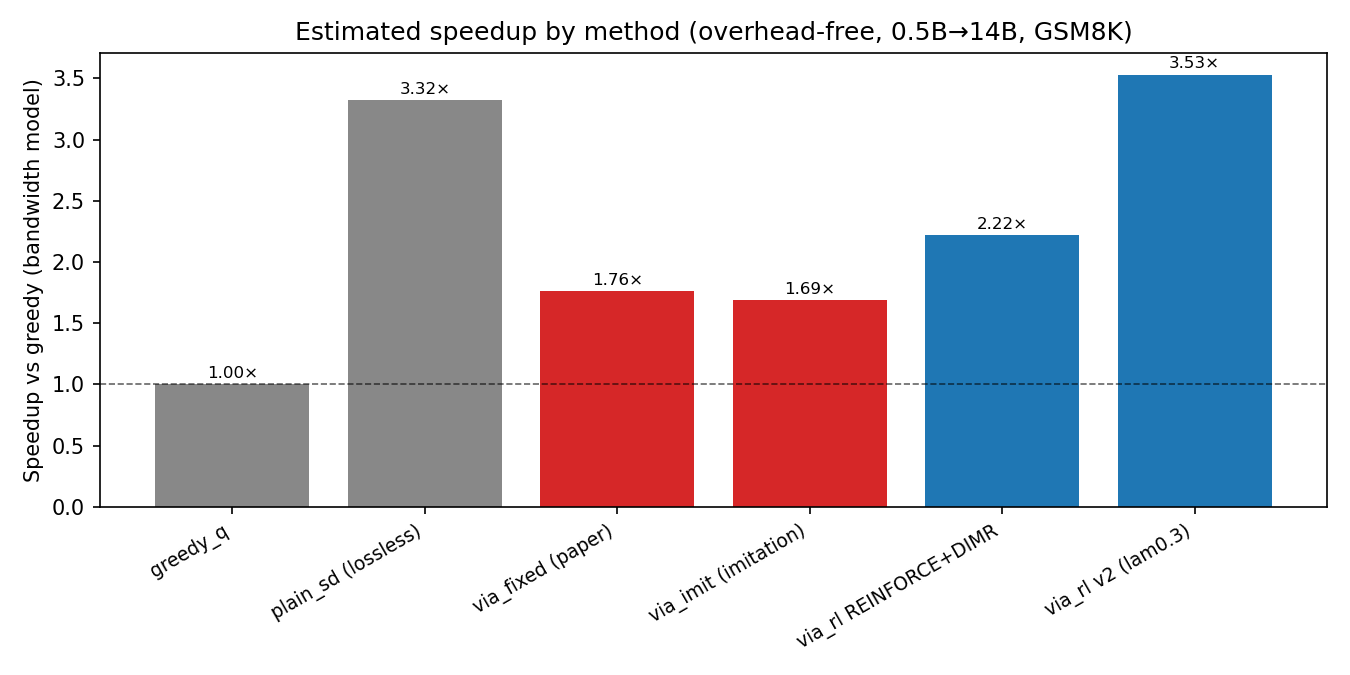
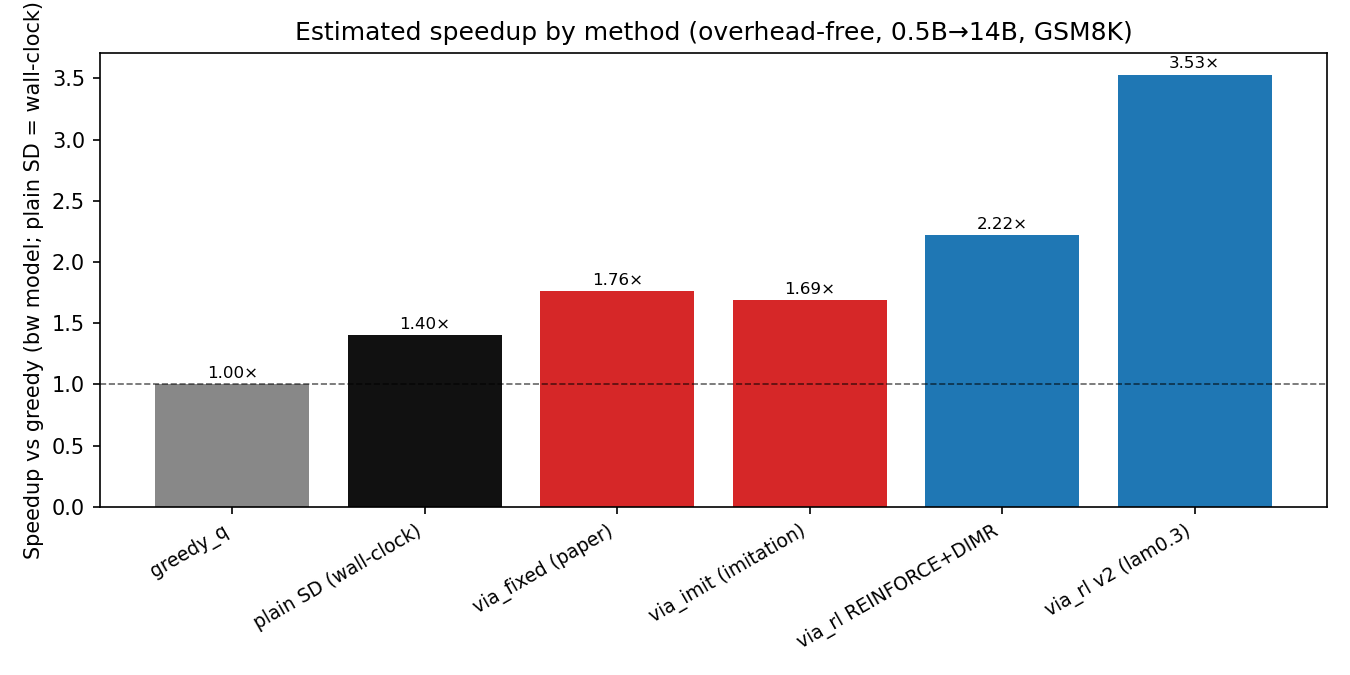
update: paper

Changed region(s): [[0.2489, 0.1244, 0.3733, 0.7467], [0.0, 0.0, 0.0311, 0.84], [0.1867, 0.7778, 0.3111, 0.9333]]

diff --git a/writeup.tex b/writeup.tex
@@ -21,8 +21,8 @@ policy}. We study three RL formulations (REINFORCE, GRPO, and a per-token-reward
 variant) and their reward/credit-assignment design. On a GSM8K slice with a Qwen2.5
 \mbox{0.5B$\to$14B} pair, the learned gate \textbf{dramatically outperforms the paper's fixed
 thresholds} (accuracy $0.21$--$0.40\to0.88$--$0.91$) at fewer expensive verifier calls.
-We also report honest negatives: plain lossless speculative decoding stays
-Pareto-competitive at this gap, and the slim-verifier tier only pays off when the gate is learned.
+We also report honest negatives: the slim-verifier middle tier only pays off when the gate is
+learned, and scaling the verifier alone (without the drafter) hurts an accept-heavy policy.
 \end{abstract}
 
 \section{Background: VIA-SD and DIMR}
@@ -39,7 +39,7 @@ inserts a \emph{slim intermediate verifier} $q'$ between $p$ and $q$, turning th
 accept/reject into a three-way \emph{hierarchical} decision per token: \textbf{accept} $p$'s token
 when $q'$ is highly confident; \textbf{regenerate} with $q'$ for medium-confidence (middle-zone)
 tokens; \textbf{escalate} to the full $q$ only for low-confidence tokens. By resolving middle-zone
-tokens at $q'$, it reduces how often the expensive $q$ is invoked relative to plain SD. The routing
+tokens at $q'$, it reduces how often the expensive $q$ is invoked relative to standard two-tier SD. The routing
 is governed by two fixed confidence thresholds $(\alpha_1,\alpha_2)$ on $q'$'s confidence ratio
 (reported best at $\alpha_1{=}0.5,\alpha_2{=}0.3$); the scheme is mildly \emph{lossy}, with a
 tolerance $\alpha$ controlling how far accepted tokens may deviate. The paper motivates the
@@ -161,10 +161,10 @@ the match-based rewards are match-dominated, the resulting RL is close to \emph{
 \begin{table}[H]\centering\small
 \begin{tabular}{lccc}
 \toprule
-Method & GSM8K acc & q-calls/tok & speedup (bw) \\
+Method & GSM8K acc & q-calls/tok & speedup \\
 \midrule
 greedy-$q$ (reference)        & 0.887 & 1.000 & 1.00$\times$ \\
-plain SD (lossless)           & 0.907 & 0.259 & 3.30$\times$ \\
+plain SD (standard, lossless) & 0.907 & 0.259 & 1.40$\times$\textsuperscript{\dag} \\
 \midrule
 via\_fixed (paper, tuned)     & 0.40\textsuperscript{*} & 0.31 & 1.76$\times$ \\
 via\_imit (imitation only)    & 0.34  & 0.29 & 1.69$\times$ \\
@@ -175,21 +175,25 @@ via\_rl REINFORCE\,+\,DIMR    & \textbf{0.907} & 0.250 & 2.22$\times$ \\
 via\_rl v2 per-token ($\lambda{=}0.3$) & 0.713 & 0.104 & \textbf{3.53$\times$} \\
 \bottomrule
 \end{tabular}
-\caption{Headline comparison (0.5B$\to$14B, GSM8K). \textsuperscript{*}via\_fixed peaks at
-$\approx$0.50 even under a full 9-config threshold sweep. q-calls/token is exact; bandwidth
-speedup reported where measured. Accuracy uses $n{=}80$--$150$ (see caveats).}
+\caption{Headline comparison (0.5B$\to$14B, GSM8K). \textsuperscript{\dag}plain SD speedup is
+\textbf{measured wall-clock} (Qwen) at 0.907 accuracy --- the realistic SD anchor (matches the
+paper's 1.3--1.7$\times$). All other speedups are the \textbf{bandwidth model} (idealized,
+overhead-free; the via\_* real wall-clock would be lower), so they are not directly comparable
+to \textsuperscript{\dag}. \textsuperscript{*}via\_fixed peaks at $\approx$0.50 even under a full
+9-config threshold sweep. q-calls/token is exact and hardware-independent. Accuracy $n{=}80$--$150$.}
 \end{table}
 
 \begin{figure}[H]\centering
 \includegraphics[width=0.72\textwidth]{results/figures/speedup_bar.png}
-\caption{Overhead-free speedup by method. The learned v2 gate and plain SD reach $\sim$3.3--3.5$\times$;
-the fixed-threshold gate is slow because it over-escalates to the full model.}
+\caption{Speedup by method. \textbf{plain SD's bar is measured wall-clock (1.4$\times$, Qwen)};
+all via\_* bars are the idealized bandwidth model (overhead-free) and are \emph{not} directly
+comparable --- their real wall-clock would be lower. The fixed-threshold gate over-escalates.}
 \end{figure}
 \begin{figure}[H]\centering
 \includegraphics[width=0.62\textwidth]{results/figures/pareto.png}
 \caption{Accuracy vs.\ speedup. \textcolor{blue}{Learned} gates dominate \textcolor{red}{fixed}
-ones; \texttt{REINFORCE+DIMR} matches plain SD's accuracy (0.907) at lower speed (the $q'$ overhead);
-v2 trades accuracy for speed.}
+ones; \texttt{REINFORCE+DIMR} reaches near-greedy accuracy (0.907); v2 trades accuracy for higher speed.
+(plain SD's $x$ is measured wall-clock; via\_* use the bandwidth model --- different metrics.)}
 \end{figure}
 \begin{figure}[H]\centering
 \includegraphics[width=\textwidth]{results/figures/rl_curves.png}
@@ -205,11 +209,12 @@ fully tuned), at lower q-calls/token --- robust across masks and capacity gaps.
 \item \textbf{DIMR helps only the learned gate} (via\_rl $0.88\to0.91$); the fixed rule stays brittle.
 \item \textbf{Credit assignment matters}: per-token (v2) is far lower-variance than trajectory-level
 REINFORCE/GRPO and reaches the lowest escalation; GRPO's group baseline beats REINFORCE's global one.
-\item \textbf{v2 unlocks VIA-SD $>$ plain-SD \emph{on speed}} ($3.53\times>3.30\times$, escalation below
-break-even) but overshoots accuracy ($0.71$) at $\lambda{=}0.3$.
-\item \textbf{Honest negatives}: plain lossless SD stays Pareto-competitive (the $q'$ tier overhead
-doesn't pay off at this gap); a bigger \emph{verifier} (32B) hurts an accept-heavy policy (acc $0.33$)
---- a bigger \emph{drafter} is the indicated lever.
+\item \textbf{The v2 per-token reward drives escalation below break-even} and reaches the highest
+speedup ($3.53\times$) but overshoots accuracy ($0.71$) at $\lambda{=}0.3$; lower $\lambda$ trades
+back toward accuracy ($\lambda{=}0.1$: acc $0.80$ at $2.68\times$).
+\item \textbf{Honest negatives}: the $q'$ middle tier's per-block overhead limits net speedup at
+this gap; and a bigger \emph{verifier} (32B) hurts an accept-heavy policy (acc $0.33$) because the
+fixed small drafter is then relatively weaker --- a bigger \emph{drafter} is the indicated lever.
 \end{enumerate}
 
 \section{Caveats}
@@ -217,5 +222,16 @@ Accuracy at small $n$ ($24$--$50$) carries a $\pm0.06$--$0.10$ CI, so small accu
 noise (large ones are not). Speedups are an overhead-free cost \emph{model}, not a stopwatch on an
 optimized engine (CUDA-graphs/static-cache were incompatible with the dynamic KV-cache loop). Single
 task (GSM8K), single model family (Qwen2.5).
+
+\textbf{Why our accuracy differs from the paper.} Our plain-SD GSM8K accuracy ($0.907$) is well
+above the paper's reported SD numbers ($0.70$ for Gemma2-2B$\to$9B, $0.78$ for 2B$\to$27B). This
+reflects the \emph{base model, not the method}: standard SD is \emph{lossless}, so its accuracy
+equals the target verifier's own greedy accuracy, and Qwen2.5-14B is far stronger on GSM8K than
+Gemma2-9B/27B. The methodologically meaningful agreement is that, in both works, SD accuracy tracks
+the verifier's greedy accuracy and the hierarchical/learned variants preserve or marginally shift it.
+Within our own runs the SD (=greedy) accuracy also varies by $\pm0.02$ from small $n$ plus bf16
+nondeterminism between the cached and re-forward code paths (which is also why our measured
+$\text{plain\_sd}\approx0.907 > \text{greedy}_q\approx0.887$ despite SD being exactly lossless).
+We also use 4-shot prompting vs.\ the paper's 8-shot.
 
 \end{document}

diff --git a/scripts/bench.py b/scripts/bench.py
@@ -43,6 +43,8 @@ def main():
     ap.add_argument("--keep_mask", type=str, default="")
     ap.add_argument("--policy_imitation", type=str, default="policy_imitation.pt")
     ap.add_argument("--policy_rl", type=str, default="policy_rl.pt")
+    ap.add_argument("--methods", type=str, default="",
+                    help="comma-separated subset to run (e.g. greedy_q,via_fixed,via_rl); empty=all")
     args = ap.parse_args()
 
     cfg = Config(max_new_tokens=args.max_new, keep_mask_path=args.keep_mask)
@@ -67,6 +69,10 @@ def main():
     if os.path.exists(args.policy_rl):
         polr = load_policy(args.policy_rl, cfg.device)
         methods["via_rl"] = lambda ids, m: via_sd_generate(tiers, ids, m, PolicyDecider(polr))
+    if args.methods:
+        sel = [s.strip() for s in args.methods.split(",")]
+        methods = {k: v for k, v in methods.items() if k in sel}
+        print("running subset:", list(methods.keys()), flush=True)
 
     lat_corr = corrected_latencies(tiers, lat)
     lat_bw = bandwidth_latencies(tiers)
@@ -75,24 +81,22 @@ def main():
     print(f"bandwidth (ms):  t_p1={lat_bw.t_p1*1e3:.2f} t_qp={lat_bw.t_qp*1e3:.2f} "
           f"t_q={lat_bw.t_q*1e3:.2f} t_q1={lat_bw.t_q1*1e3:.2f}\n", flush=True)
 
-    rows = []
-    for name, fn in methods.items():
-        print(f"running {name} ...", flush=True)
-        agg, acc = run_method(tiers, problems, fn)
-        a, r, e = agg.tier_fractions()
-        tpq = (agg.tokens / (agg.q_forwards + agg.q1_steps)) if (agg.q_forwards + agg.q1_steps) else float("inf")
-        rows.append((name, acc, agg.rejection_rate, a, r, e, agg.q_calls_per_token, tpq,
-                     lat.speedup(agg), lat_corr.speedup(agg), lat_bw.speedup(agg)))
-
     # q/tok = full-verifier calls/token (headline, hardware-independent); tok/q = its inverse.
     # spd = measured (overhead-bound); spd_cor = overhead-subtracted; spd_bw = bandwidth model.
     hdr = (f"{'method':<11}{'acc':>7}{'rej':>7}{'accept':>7}{'escal':>7}"
            f"{'q/tok':>7}{'tok/q':>7}{'spd':>6}{'spd_cor':>8}{'spd_bw':>8}")
     print("\n" + hdr)
     print("-" * len(hdr))
-    for name, acc, rej, a, r, e, qpt, tpq, sp, spc, spbw in rows:
-        print(f"{name:<11}{acc:>7.3f}{rej:>7.3f}{a:>7.3f}{e:>7.3f}"
-              f"{qpt:>7.3f}{tpq:>7.2f}{sp:>5.2f}x{spc:>7.2f}x{spbw:>7.2f}x")
+    # Print each row as soon as it finishes, so a crash mid-run preserves completed rows.
+    for name, fn in methods.items():
+        print(f"running {name} ...", flush=True)
+        agg, acc = run_method(tiers, problems, fn)
+        a, r, e = agg.tier_fractions()
+        tpq = (agg.tokens / (agg.q_forwards + agg.q1_steps)) if (agg.q_forwards + agg.q1_steps) else float("inf")
+        qpt, sp, spc, spbw = (agg.q_calls_per_token, lat.speedup(agg),
+                              lat_corr.speedup(agg), lat_bw.speedup(agg))
+        print(f"{name:<11}{acc:>7.3f}{agg.rejection_rate:>7.3f}{a:>7.3f}{e:>7.3f}"
+              f"{qpt:>7.3f}{tpq:>7.2f}{sp:>5.2f}x{spc:>7.2f}x{spbw:>7.2f}x", flush=True)
 
 
 if __name__ == "__main__":

diff --git a/scripts/make_figures.py b/scripts/make_figures.py
@@ -18,16 +18,19 @@ os.makedirs(FIG, exist_ok=True)
 
 # ---- stable curated points (completed runs; see results/README.md) ----
 # name, acc, spd_bw, qtok, group
+# NOTE: plain SD speedup is MEASURED WALL-CLOCK (Qwen, 1.4x); all via_* speedups are the
+# idealized BANDWIDTH model -- not directly comparable (real via_* wall-clock would be lower).
 BASE = [
-    ("greedy_q",               0.900, 1.00,  1.000, "baseline"),
-    ("plain_sd (lossless)",    0.912, 3.32,  0.258, "baseline"),
-    ("via_fixed (paper)",      0.400, 1.76,  0.311, "fixed"),
-    ("via_imit (imitation)",   0.338, 1.69,  0.288, "fixed"),
-    ("via_rl REINFORCE+DIMR",  0.907, 2.22,  0.250, "learned"),
-    ("via_rl v2 (lam0.3)",     0.713, 3.53,  0.104, "learned"),
+    ("greedy_q",                 0.900, 1.00,  1.000, "baseline"),
+    ("plain SD (wall-clock)",    0.907, 1.40,  0.259, "wallclock"),
+    ("via_fixed (paper)",        0.400, 1.76,  0.311, "fixed"),
+    ("via_imit (imitation)",     0.338, 1.69,  0.288, "fixed"),
+    ("via_rl REINFORCE+DIMR",    0.907, 2.22,  0.250, "learned"),
+    ("via_rl v2 (lam0.3)",       0.713, 3.53,  0.104, "learned"),
 ]
-BAR_METHODS = BASE[:5] + [BASE[5]]
-COLORS = {"baseline": "#888888", "fixed": "#d62728", "learned": "#1f77b4", "acc-rl": "#9467bd"}
+BAR_METHODS = list(BASE)
+COLORS = {"baseline": "#888888", "wallclock": "#111111", "fixed": "#d62728",
+          "learned": "#1f77b4", "acc-rl": "#9467bd"}
 
 # ---- live points parsed from bench logs (auto-refresh as runs finish) ----
 # (label, logpath, group). via_rl row of each = the trained policy of that run.
@@ -68,7 +71,7 @@ def speedup_bar():
     bars = ax.bar(range(len(names)), spd, color=cols)
     ax.axhline(1.0, color="k", ls="--", lw=0.8, alpha=0.6)
     ax.set_xticks(range(len(names))); ax.set_xticklabels(names, rotation=30, ha="right", fontsize=9)
-    ax.set_ylabel("Speedup vs greedy (bandwidth model)")
+    ax.set_ylabel("Speedup vs greedy (bw model; plain SD = wall-clock)")
     ax.set_title("Estimated speedup by method (overhead-free, 0.5B→14B, GSM8K)")
     for b, v in zip(bars, spd):
         ax.text(b.get_x()+b.get_width()/2, v+0.05, f"{v:.2f}×", ha="center", fontsize=8)
@@ -81,7 +84,7 @@ def pareto():
     for name, acc, spd, qtok, grp in pts:
         ax.scatter(spd, acc, s=90, color=COLORS[grp], zorder=3)
         ax.annotate(name, (spd, acc), textcoords="offset points", xytext=(6, 4), fontsize=7.5)
-    ax.set_xlabel("Speedup vs greedy (bandwidth model)"); ax.set_ylabel("GSM8K accuracy")
+    ax.set_xlabel("Speedup vs greedy (bw model; plain SD = wall-clock)"); ax.set_ylabel("GSM8K accuracy")
     ax.set_title("Accuracy vs speedup frontier"); ax.grid(True, alpha=0.3)
     for g, c in COLORS.items():
         ax.scatter([], [], color=c, label=g)